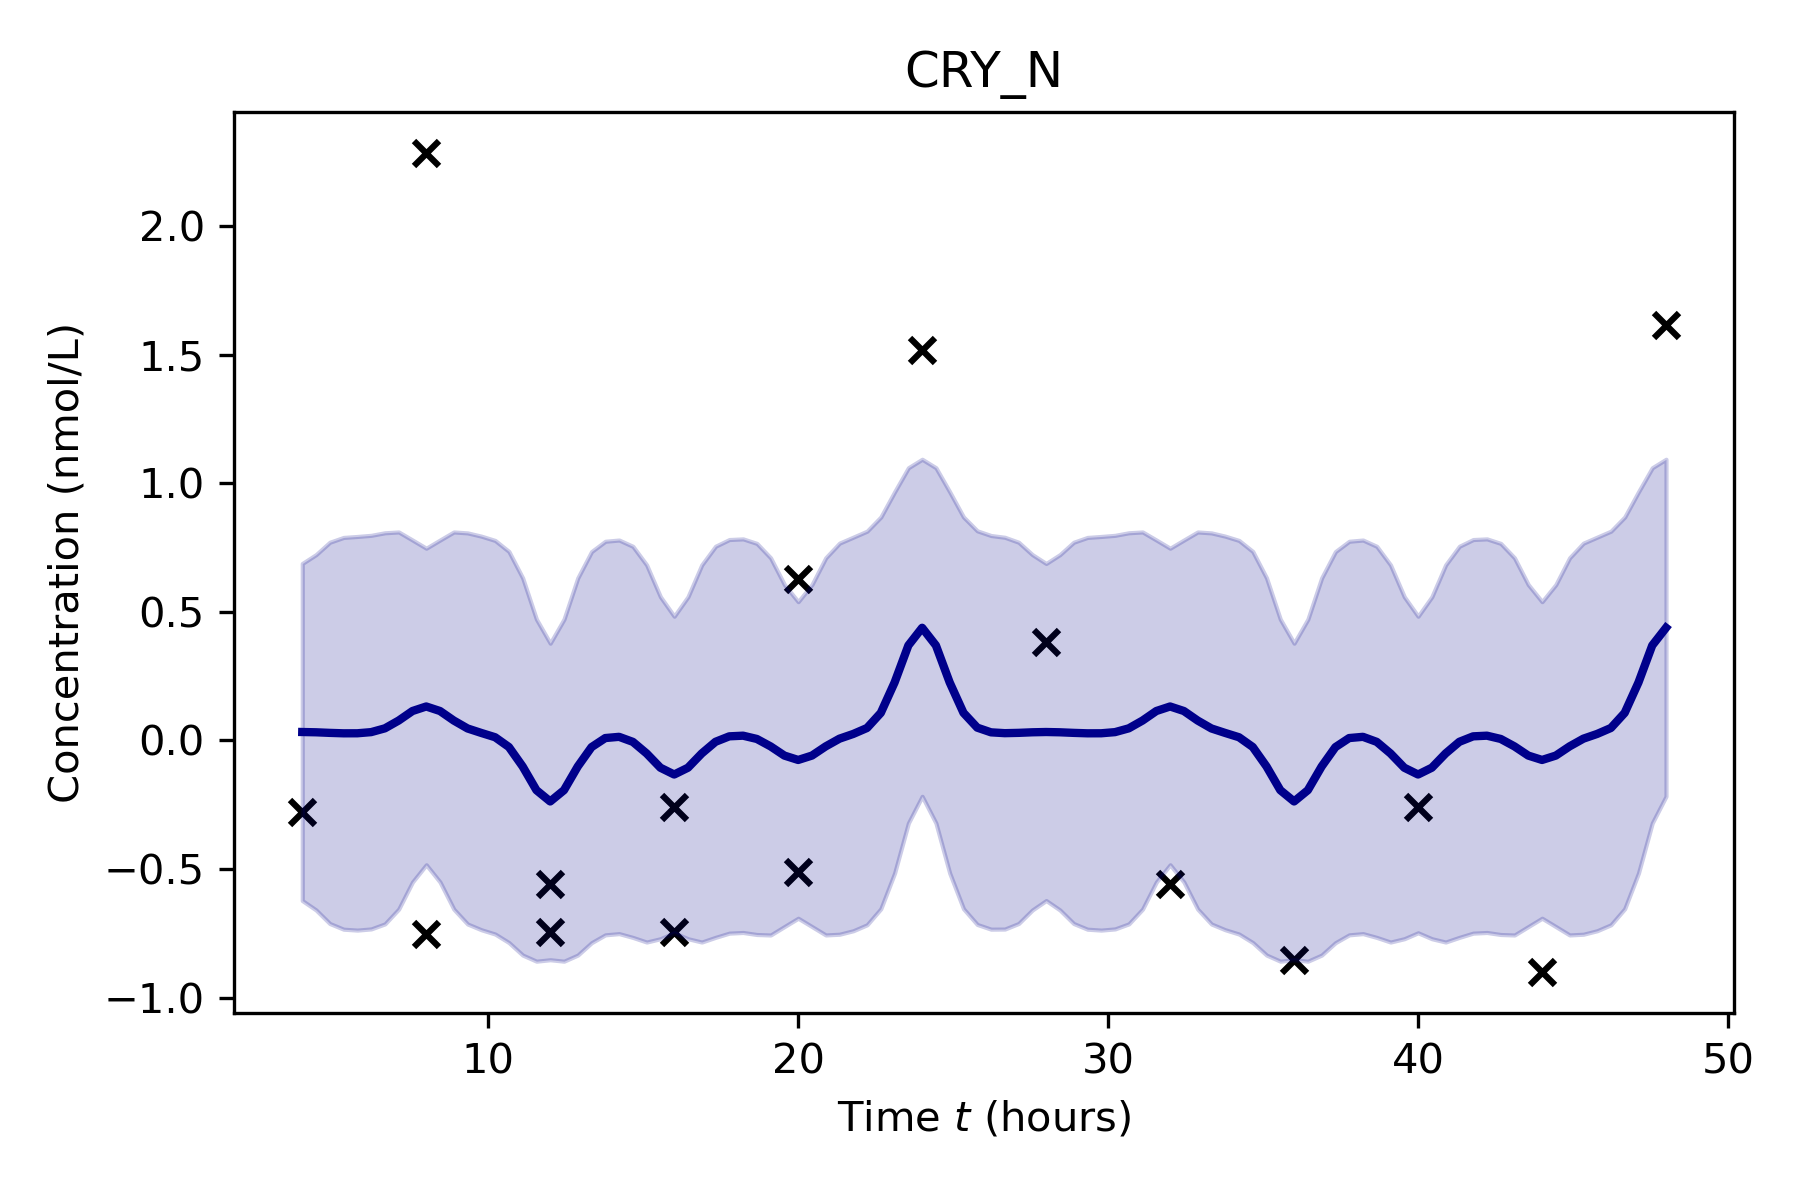
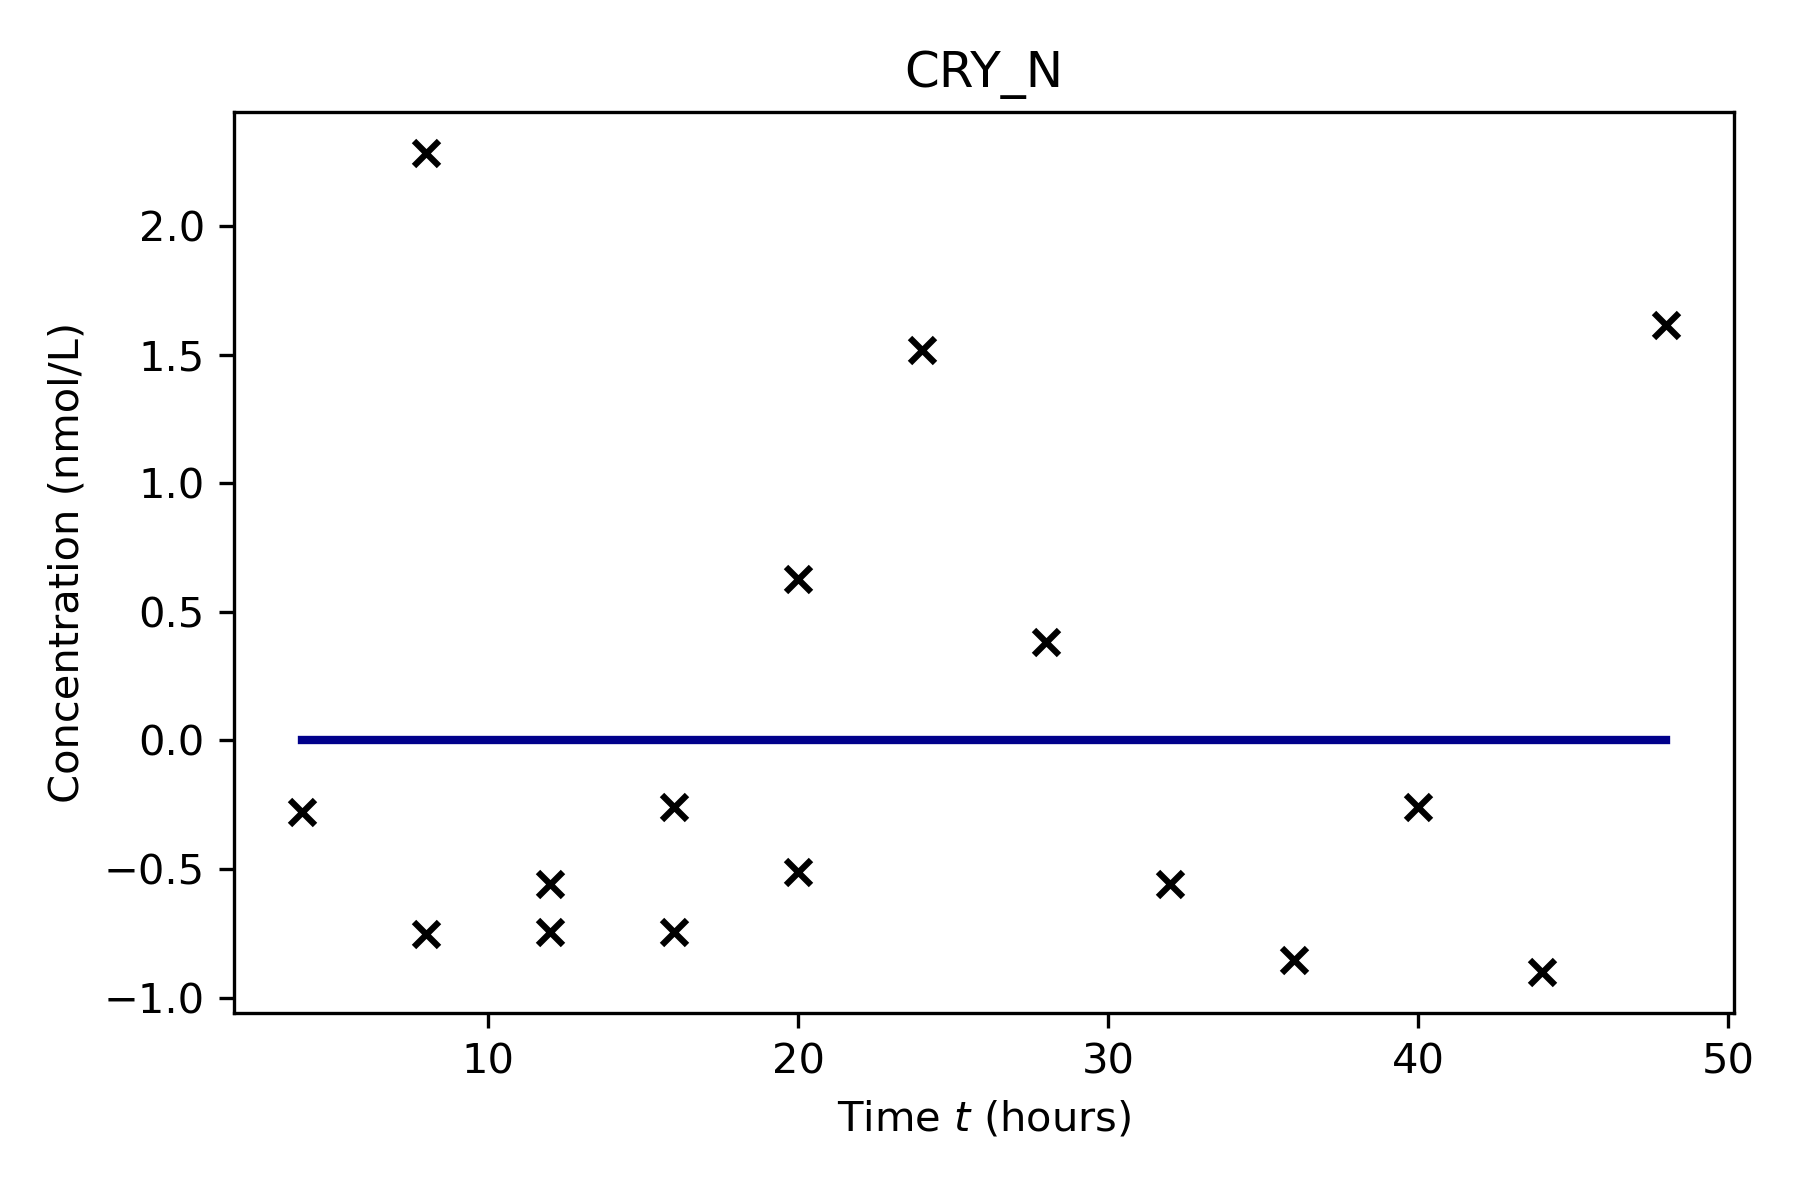
Changement de Prior et Contrainte sur la période

Changed region(s): [[0.1556, 0.37, 0.9333, 0.8017]]

diff --git a/Interpolation_processus_gaussiens.py b/Interpolation_processus_gaussiens.py
@@ -42,8 +42,9 @@ def interpolation_GP_arn(X_observation, y_observation, type_kernel, type_package
             model_per.covar_module.base_kernel.raw_period_length.requires_grad_(False)
             
         elif type_kernel == "Prior" :
-            period_prior= NormalPrior(40, 5)
-            k_per = ScaleKernel(PeriodicKernel(period_length_prior=period_prior, lengthscale_prior=gpytorch.priors.GammaPrior(concentration=.9, rate=0.5)))
+            #period_prior= NormalPrior(40, 5)
+            #k_per = ScaleKernel(PeriodicKernel(period_length_prior=period_prior, lengthscale_prior=gpytorch.priors.GammaPrior(concentration=.9, rate=0.5)))
+            k_per = ScaleKernel(PeriodicKernel(period_length_constraint=Interval(10, 50), lengthscale_prior=gpytorch.priors.GammaPrior(concentration=2, rate=0.5)))
             model_per = SingleTaskGP(X_observation, y_observation, covar_module=k_per)
         
         mll_per = ExactMarginalLogLikelihood(model_per.likelihood, model_per)
@@ -97,7 +98,7 @@ with open('data/Jeu_9/data/data_dict_concentration_cc.dat', 'rb') as fichier:
     
 list_species = ["ARNTL", "CLOCK", "CRY1", "CRY2", "NR1D1", "PER1", "PER2", "PER3", "RORA"]
 X_observation = rna_seq_data["CTs"]*3
-kernel_method = "Range"
+kernel_method = "Prior"
 package_method = "Pytorch"
 
 res_rna_seq = {name : {"X_observation_tensor" :{}, "y_observation_tensor_normalized" :{}, "time" :{}, "mean_specie":{}, "var_specie":{}} for name in list_species}
@@ -143,7 +144,7 @@ with open('data/dict_comparison', 'rb') as fichier:
     prot_data = pkl.load(fichier)
     
 list_species = list(prot_data.keys())
-kernel_method = "Range"
+kernel_method = "Prior"
 package_method = "Pytorch"
 
 res_prot = {name : {"X_observation_tensor" :{}, "y_observation_tensor_normalized" :{}, "time" :{}, "mean_specie":{}, "var_specie":{}} for name in list_species}
